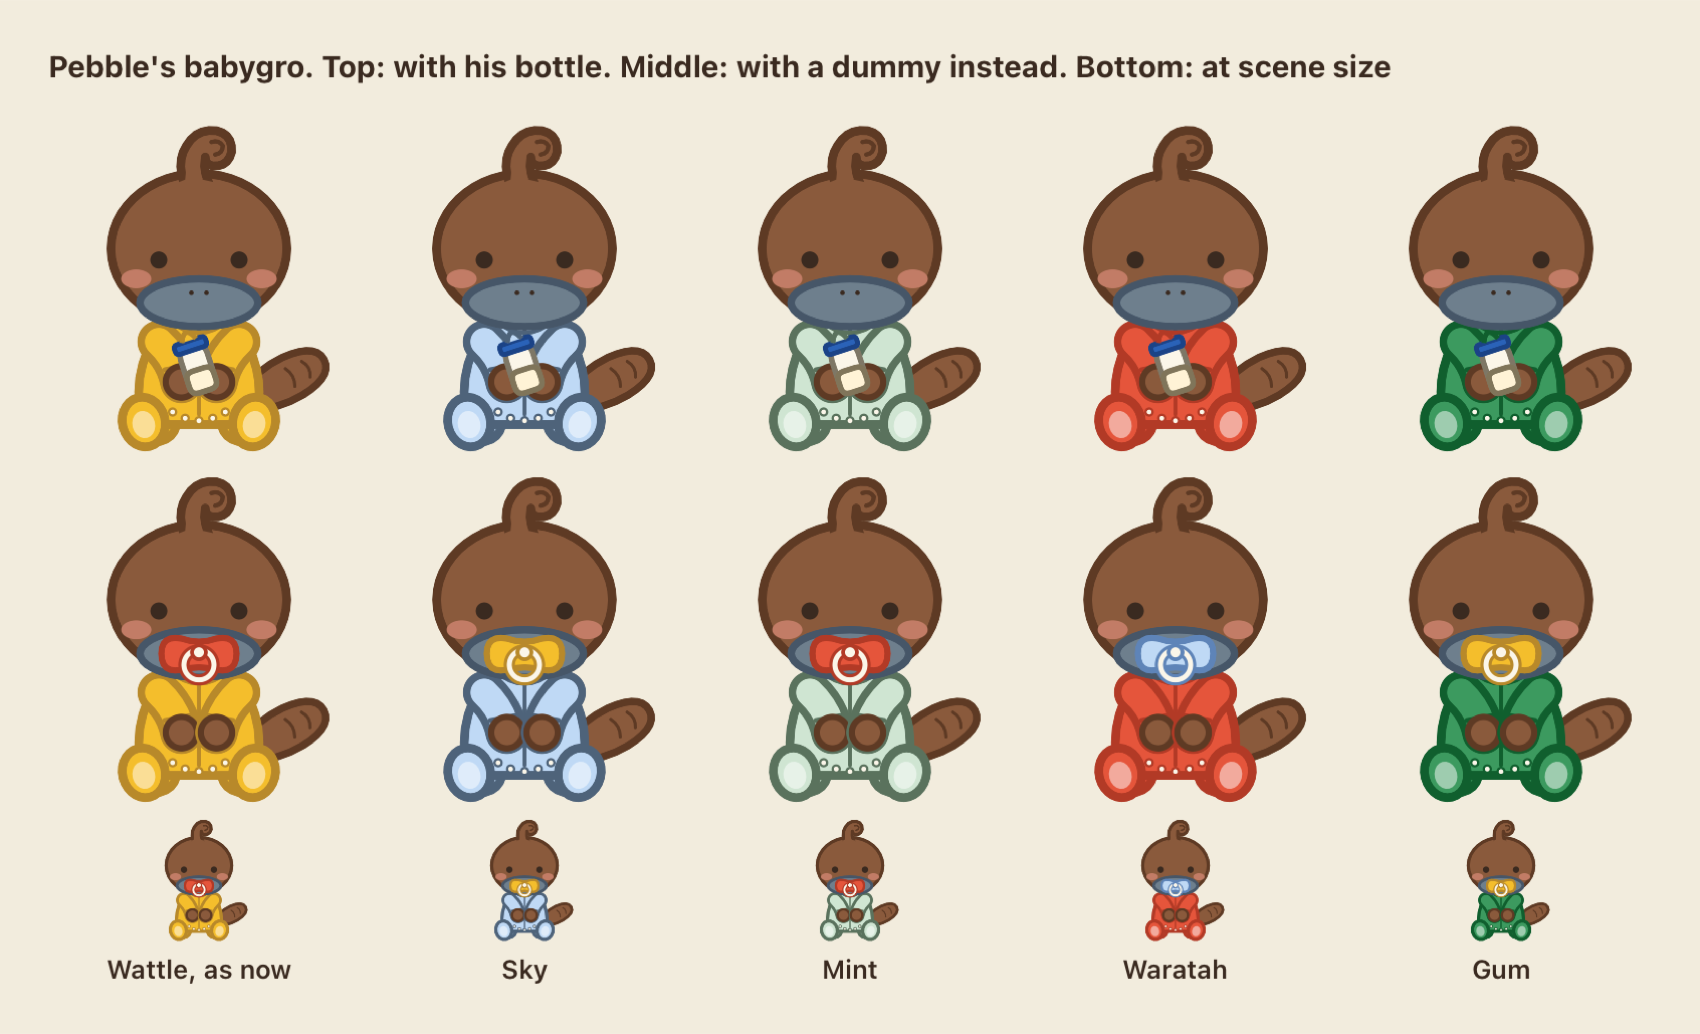
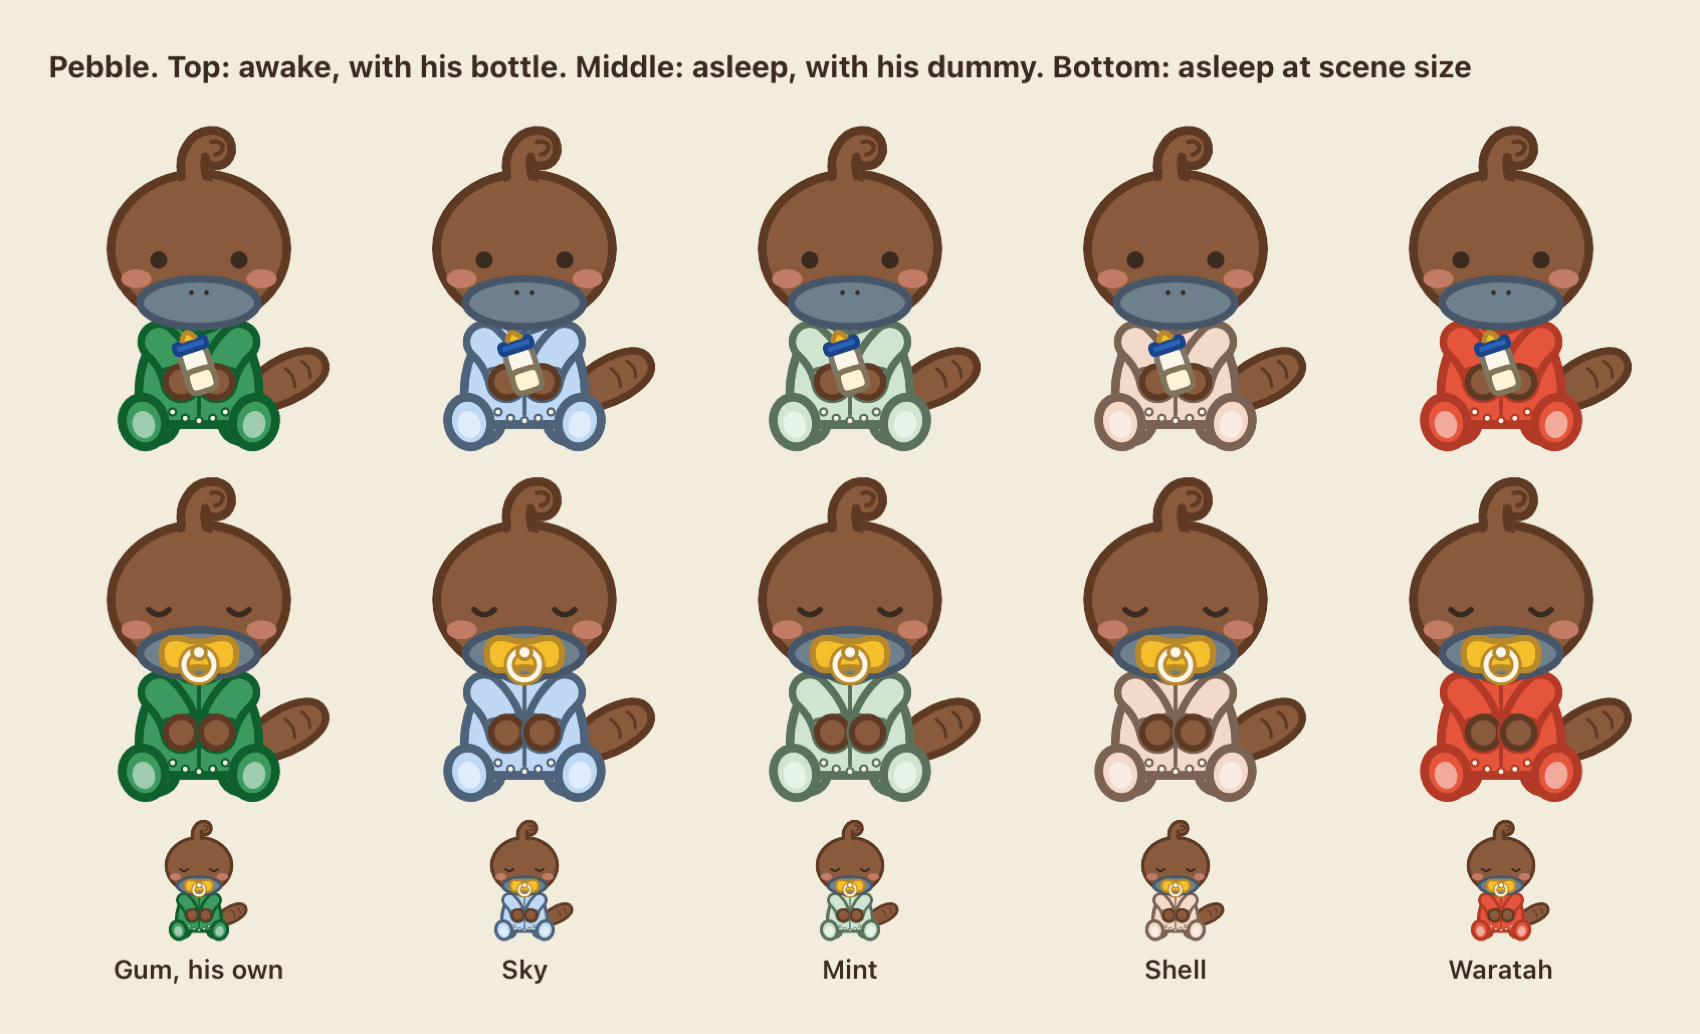
Pebble: gum-green babygro; bottle awake, yellow dummy asleep

diff --git a/app/Puggle/Features/Family/RefinementSheets.swift b/app/Puggle/Features/Family/RefinementSheets.swift
@@ -84,49 +84,24 @@ enum RefinementSheets {
         smear(puggle)
     }
 
-    /// Pebble in other onesies, each with a dummy in a colour that stands out against it and against his bill.
-    /// The dummy is an object resting on the front of his closed bill. His bill does not change.
+    /// Pebble as built: awake with his bottle, asleep with his dummy, in each colour his babygro comes in.
     private static func dummy() {
         guard let pebble = Rig.load("pebble") else { return }
-        func with(_ rig: Rig, _ shield: String, _ line: String) -> Rig {
-            var copy = rig
-            guard let face = copy.parts.firstIndex(where: { $0.id == "face" }) else { return rig }
-            // One or the other: with a dummy he has no bottle, and his hands rest together.
-            if let held = copy.parts.firstIndex(where: { $0.id == "held" }) { copy.parts[held].shapes = [] }
-            copy.parts[face].shapes += [
-                Rig.Shape(kind: "path", d: "M90 151 Q90 136 106 139 Q120 144 134 139 Q150 136 150 151 Q150 167 134 164 Q120 160 106 164 Q90 167 90 151 Z",
-                          fill: shield, stroke: dark, tint: line, width: 5),
-                Rig.Shape(kind: "ellipse", x: 120, y: 160, rx: 12, ry: 12, fill: nil, stroke: dark, tint: line, width: 9),
-                Rig.Shape(kind: "ellipse", x: 120, y: 160, rx: 12, ry: 12, fill: nil, stroke: "#FBF6E9", tint: nil, width: 4),
-                Rig.Shape(kind: "ellipse", x: 120, y: 150, rx: 5.5, ry: 5.5, fill: "#FBF6E9", stroke: dark, tint: line, width: 3),
-            ]
-            return copy
-        }
-        let looks = pebble.wardrobe?.looks ?? []
-        func dressed(_ look: Int) -> Rig { look < looks.count ? pebble.wearing(looks[look]) : pebble }
-        // onesie (a look), then the dummy's colour and its line
-        let options: [(String, Int, String, String)] = [
-            ("Wattle, as now", 0, "#E5553B", "#B23A26"),
-            ("Sky", 1, "#F4BE2C", "#B8892A"),
-            ("Mint", 2, "#E5553B", "#B23A26"),
-            ("Waratah", 4, "#BFD9F5", "#5E84B8"),
-            ("Gum", 5, "#F4BE2C", "#B8892A"),
-        ]
-        func column(_ name: String, _ plain: Rig, _ rig: Rig) -> some View {
+        let looks = pebble.wardrobe?.looks ?? [[:]]
+        let names = ["Gum, his own", "Sky", "Mint", "Shell", "Waratah"]
+        func column(_ name: String, _ rig: Rig) -> some View {
             VStack(spacing: 6) {
-                RigFrame(rig: plain, states: [:], face: nil).frame(width: 150, height: 150 * rig.size[1] / rig.size[0])
                 RigFrame(rig: rig, states: [:], face: nil).frame(width: 150, height: 150 * rig.size[1] / rig.size[0])
-                RigFrame(rig: rig, states: [:], face: nil).frame(width: 56, height: 56 * rig.size[1] / rig.size[0])
+                RigFrame(rig: rig, states: [:], face: ["eyes": "closed"]).frame(width: 150, height: 150 * rig.size[1] / rig.size[0])
+                RigFrame(rig: rig, states: [:], face: ["eyes": "closed"]).frame(width: 56, height: 56 * rig.size[1] / rig.size[0])
                 Text(name).font(.system(size: 13, weight: .semibold)).foregroundStyle(ink)
             }
         }
         let sheet = VStack(alignment: .leading, spacing: 14) {
-            Text("Pebble's babygro. Top: with his bottle. Middle: with a dummy instead. Bottom: at scene size")
+            Text("Pebble. Top: awake, with his bottle. Middle: asleep, with his dummy. Bottom: asleep at scene size")
                 .font(.system(size: 15, weight: .bold)).foregroundStyle(ink)
             HStack(alignment: .bottom, spacing: 12) {
-                ForEach(options.indices, id: \.self) { i in
-                    column(options[i].0, dressed(options[i].1), with(dressed(options[i].1), options[i].2, options[i].3))
-                }
+                ForEach(looks.indices, id: \.self) { i in column(i < names.count ? names[i] : "", pebble.wearing(looks[i])) }
             }
         }
         save(sheet, as: "pebble-dummy.png")

diff --git a/app/tools/make_cast_rigs.py b/app/tools/make_cast_rigs.py
@@ -97,8 +97,8 @@ def drawings():
         'dad': (grown('dad', '#2A62B8', ['', 'jumper', 'overalls']), 456, '#2A62B8', PAIRS['dad'], "Dad: a shirt and shorts."),
         'pop': (grown('pop', '#BFD9F5', ['', 'waistcoat', 'jumper']), 456, '#BFD9F5', PAIRS['pop'],
                 "Pop: Puggle's grandfather. Round glasses, a green bucket hat, a cardigan."),
-        'pebble': ({'': baby('neutral', '#F4BE2C')}, 270, '#F4BE2C', ['#BFD9F5', '#CFE5D2', '#F3D9C9', '#E5553B', '#3C9A5F'],
-                   "Pebble: Puggle's baby brother, about six months, sitting with a bottle. A round curl."),
+        'pebble': ({'': baby('neutral', '#3C9A5F')}, 270, '#3C9A5F', ['#BFD9F5', '#CFE5D2', '#F3D9C9', '#E5553B'],
+                   "Pebble: Puggle's baby brother, about six months, sitting in a gum-green babygro with a bottle, or a dummy when he sleeps. A round curl."),
         'quill': ({'': quill('dungarees'), 'jumper': quill('jumper'), 'tee': quill('tee')}, 300, '#E5553B', ['#2A62B8', '#3C9A5F', '#F4BE2C'],
                   "Quill: an echidna, Puggle's friend. The spines are the signature."),
         'kip': ({'': kip('dress'), 'dungarees': kip('dungarees'), 'jumper': kip('jumper')}, 300, '#F4BE2C', ['#E5553B', '#3C9A5F', '#F3D9C9'],
@@ -857,7 +857,17 @@ def babygro(parts):
                 {'kind': 'ellipse', 'x': x, 'y': 248, 'rx': 9, 'ry': 11, 'rotate': turn, 'fill': lighten(suit['fill'])}]
     upper['shapes'] = ([piece(leg), piece(mirrored(leg)), piece(body), seam('M120 172 L120 240'), seam('M102 169 Q120 181 138 169', 3.5)]
                        + poppers + sole(76, -14) + sole(164, 14) + upper['shapes'][1:])
-    # His own feet are inside it.
+    # A bottle or a dummy, never both: the bottle while he is awake, a wattle-yellow dummy while he sleeps,
+    # when his hands rest together. The dummy is a shield and a ring resting on the front of his closed
+    # bill; the bill itself does not change.
+    next(p for p in parts if p['id'] == 'held')['when'] = 'eyes=open'
+    gold, line = '#F4BE2C', '#B8892A'
+    parts.append({'id': 'dummy', 'parent': 'head', 'pivot': [120, 152], 'when': 'eyes=closed', 'shapes': [
+        {'kind': 'path', 'd': 'M90 151 Q90 136 106 139 Q120 144 134 139 Q150 136 150 151 Q150 167 134 164 Q120 160 106 164 Q90 167 90 151 Z',
+         'fill': gold, 'stroke': INK, 'tint': line, 'width': 5},
+        {'kind': 'ellipse', 'x': 120, 'y': 160, 'rx': 12, 'ry': 12, 'stroke': INK, 'tint': line, 'width': 9},
+        {'kind': 'ellipse', 'x': 120, 'y': 160, 'rx': 12, 'ry': 12, 'stroke': '#FBF6E9', 'width': 4},
+        {'kind': 'ellipse', 'x': 120, 'y': 150, 'rx': 5.5, 'ry': 5.5, 'fill': '#FBF6E9', 'stroke': INK, 'tint': line, 'width': 3}]})
     for side in ('left', 'right'):
         next(p for p in parts if p['id'] == f'foot-{side}')['shapes'] = []
     return parts

diff --git a/docs/baby-tracker-spec.md b/docs/baby-tracker-spec.md
@@ -565,6 +565,7 @@ Two tiers, confirmed by Tom: **line icons with one accent in the app; full-colou
 - **The platypus tail, redrawn (Tom, 2026-11-14, built).** The tail was an oval lying beside the legs with a line down its middle and two across: it read as a leaf, and on the grown-ups it floated clear of the body (Dad's hung beside his knees). It is now a **paddle**: narrow where it leaves the body, broad and round at the end, with two short ridges across and no midline. Its base is tucked in behind the body, so it always grows out of them. It leaves the body at the hip, level with the hand, not down by the knees; a sitting baby's is at his hip too, clear of the ground. The same shape for Puggle, Pebble, Mum, Dad, Nan and Pop (`paddle` and `regrow_tail` in `app/tools/make_cast_rigs.py`; Puggle's is in `puggle.rig.json`). Its pivot moved to the new base. Sheet: `docs/previews/platypus-tails.png`.
 - **Decided 14 November 2026 (Tom).** (1) **Nan has a set of curls**, not a bun: built (`curls`, with her side curls). (2) **Quill's spines stay the brown of her head.** (3) **Pebble's dummy** is a mock-up only, as an occasional prop for sleepy moments: a shield and ring resting on the front of his closed bill, which does not change (`docs/previews/pebble-dummy.png`); not built. (4) **The tested movement is switched on in the app** (`RigRuntime.refined` now defaults to on): the blink that shuts fast and opens slowly; eyes leading a head tilt; the hop with weight (`play` picks a move's `-refined` version where there is one); the eye smear (checked frame by frame: stretched at 16 and 50 ms, round again by 100 ms; `docs/previews/eye-smear.png`); and ears, spines and hair taking a position for a feeling (`RigFeeling` in `Rig.swift`): sleepy while asleep, happy during a wave or a hooray, a smaller happy for a nod, surprised on waking, curious while the eyes follow a finger. At night the positions are halved with everything else. Shy is defined but nothing triggers it yet. The tail does not yet take part.
 - **Pebble's babygro (Tom, 2026-11-14, built).** The canvas drew his garment as a flared triangle, which read as a dress. It is now a babygro: a rounded suit close to the body, a leg each side with a cuff, poppers round the inside of the legs, a seam down the front, a neckband, and feet. He sits with his legs out towards us, so each foot shows as a rounded sole in the suit's colour with a paler pad; his own webbed feet are inside it (`babygro` in `app/tools/make_cast_rigs.py`). It comes in wattle (as drawn), sky, mint, shell, waratah and gum. **A bottle or a dummy, never both (Tom):** with a dummy he has no bottle and his hands rest together. **Open:** which colour is his own (wattle is now the rain colour), and whether he has a dummy; the mock-up dummy is larger than the first, with a pale ring, in a colour that contrasts with the babygro (`docs/previews/pebble-dummy.png`).
+- **Pebble, settled (Tom, 2026-11-14, built).** His babygro is **gum green**; it also comes in sky, mint, shell and waratah, and wattle is dropped because yellow is the rain colour. **Awake he has his bottle; asleep he has a wattle-yellow dummy** and his hands rest together: one or the other, never both. The dummy is the part `dummy`, shown when his eyes are closed; the bottle (`held`) is shown when they are open. This closes the two open points in the babygro note above. Sheet: `docs/previews/pebble-dummy.png`.
 - **Wallpapers and books, second version** (Brand page). Wallpapers: two lock-screen scenes (Morning, Bedtime) with the sky left clear for the clock, plus three repeats: round sticker badges of the cast over a gum-leaf and quatrefoil line pattern, a one-colour line repeat (prints as one screen), and a single-character brick repeat with a soft shadow. Books: covers are the scenes (Puggle at the Beach; Night Night, Puggle; Puggle and the Big Puddle; Puggle Goes to Nan's), title in the scene's sky colour, series name at the foot, Ink spine; spreads are words left, picture right. First versions are on the Archive page.
 - **Animal Crossing wallpaper references (Tom, 2026-11-10).** Ideas taken: sticker heads with a coloured edge over a house-motif line pattern; one-colour line repeats; one character tiled with a soft shadow; a quiet screen with a small scene at the bottom; soft star sprinkles. Not taken: any Nintendo character, the leaf mark, or their colours. Our motifs are the gum leaf and the quatrefoil. A second batch (Mario, Pikmin and Animal Crossing wallpapers) added three more: **tone on tone** (the activity icons as a one-colour pattern with the cast in front), **the parade** (everyone in a row along the bottom, a faint motif grid above, bushes in front) and **night lines** (the activity icons as line drawings on night blue). Lessons: leave room; tone on tone; one motif family (gum leaf, quatrefoil, activity icons); the same drawings work as line or as flat shapes.
 - **Motion studies for Rive** (canvas: Characters page; sources in `design/canvas/gen/motion.py`). Looping SVG sketches, to be rebuilt in the Rive editor. Puggle: **Idle** (breath, blink every 4 s on its own layer, tail drift), **Wave** (greet), **Hooray** (squash, jump, land, quatrefoils pop), **Sleepy** (slow breath, nodding head, floating z), **Walk** (two key poses). State machine "Mood": triggers `greet` and `celebrate` return to Idle; booleans `asleep` and `walking`. Scenes get slow ambient loops (rising sun, twinkling stars, falling rain, falling confetti) with Puggle nested; Reduce Motion shows the still scene. Second pass added anticipation, squash and stretch about the feet, follow-through (tail, clip and head a beat late), idle one-offs (a glance, a tail flick), a falling-asleep transition and a four-key walk (contact, down, passing, up). Parts for import, with named groups: `design/rive/puggle-parts.svg`. The contract between the Rive file and the app (file, artboard, state machine and input names, timings, order of work) is `design/rive/README.md`; the app side is `PuggleView` and `PuggleController`.
